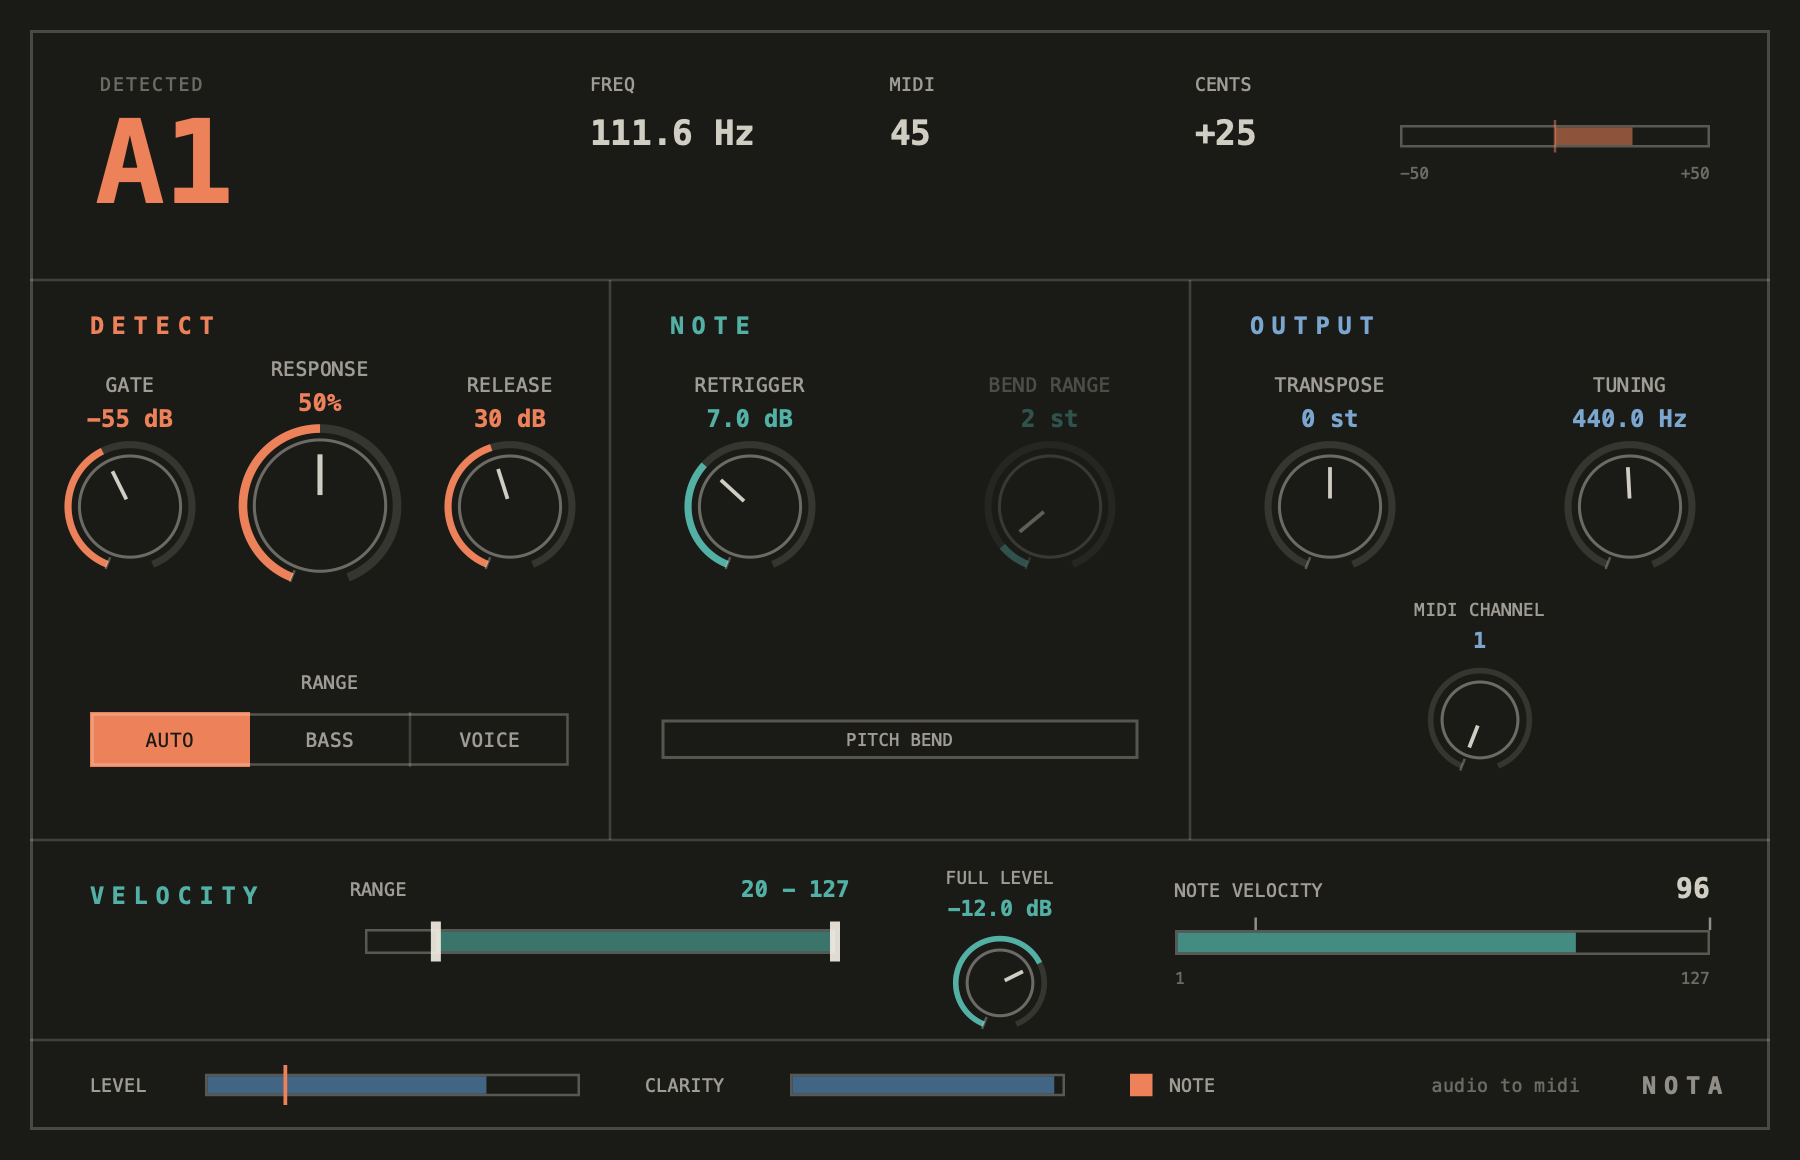
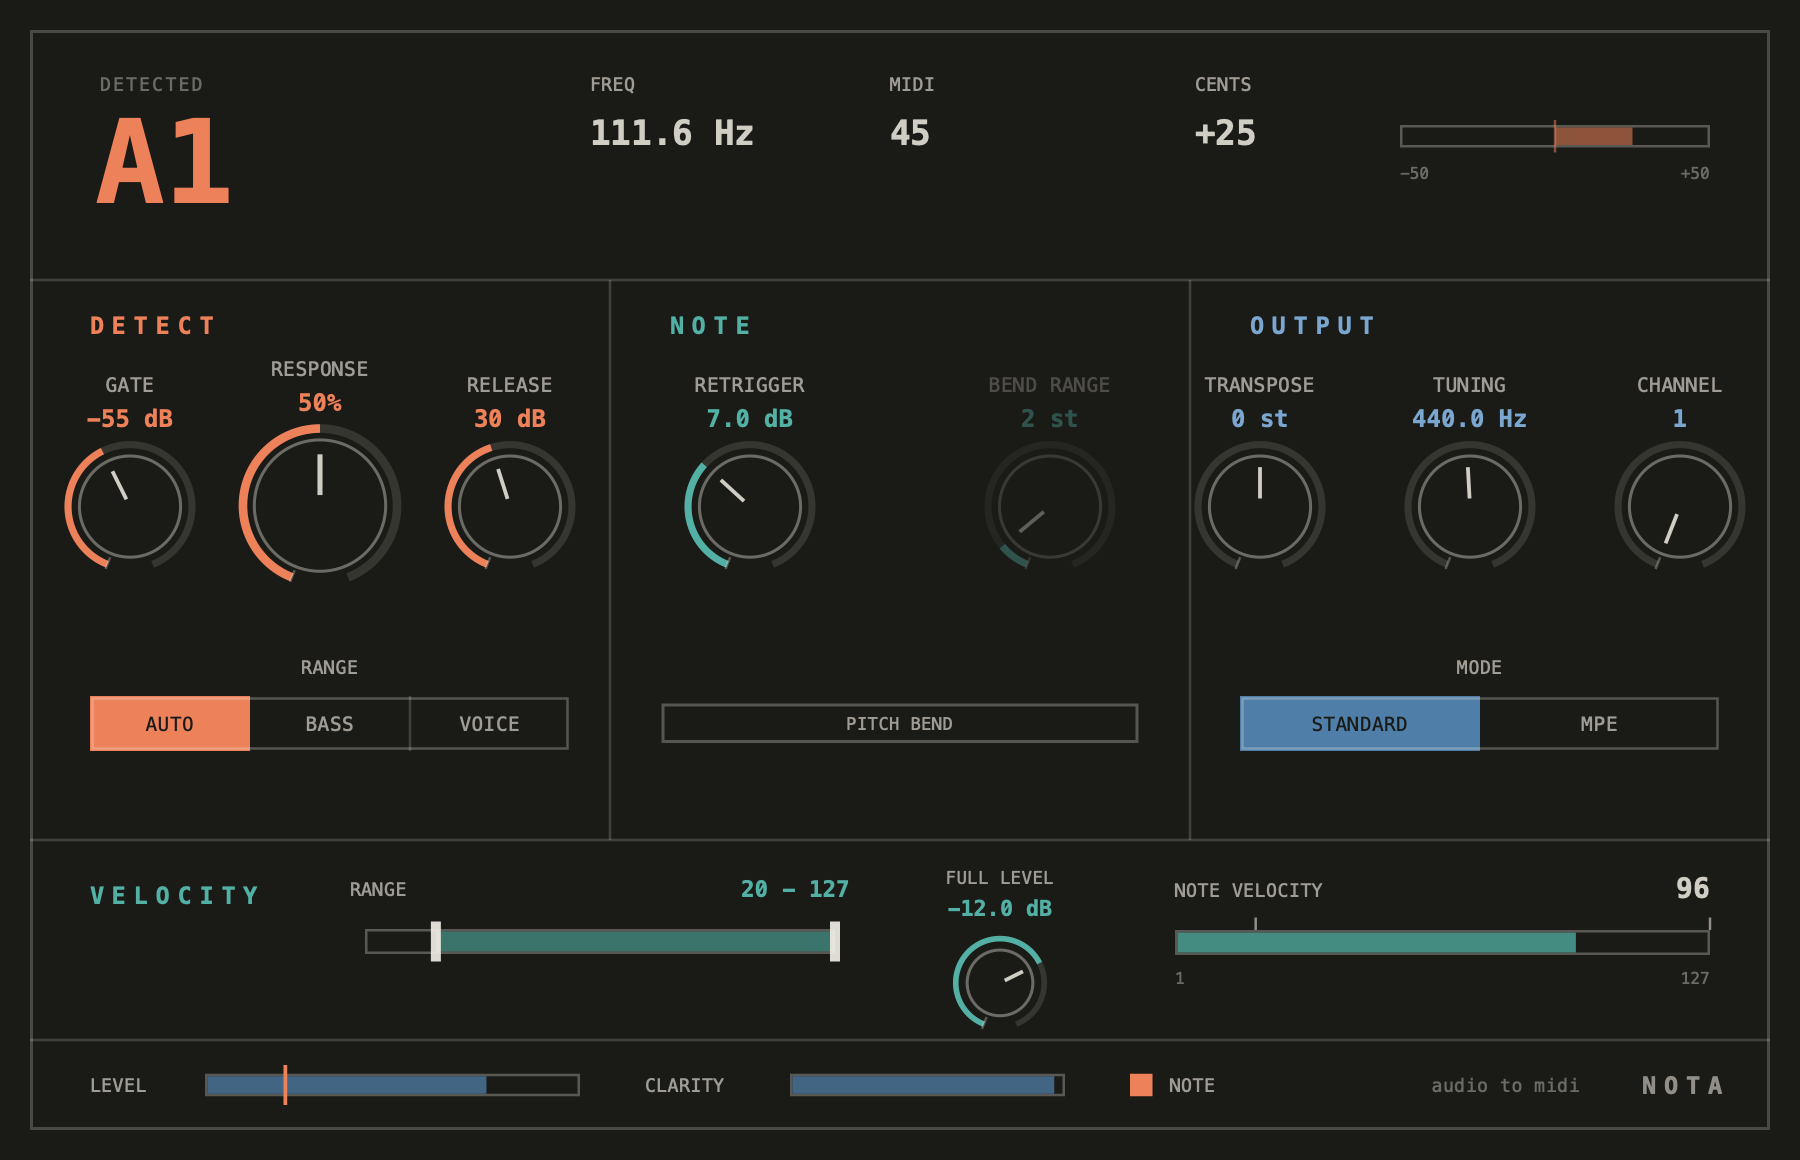
Plugin: MPE mode, AI Assist switch, velocity controls, dark UI

diff --git a/source/plugin/PluginProcessor.cpp b/source/plugin/PluginProcessor.cpp
@@ -16,6 +16,11 @@ constexpr const char* kVelFull = "velFull";
 constexpr const char* kTuning = "tuning";
 constexpr const char* kRetrigger = "retrigger";
 constexpr const char* kChannel = "channel";
+constexpr const char* kMode = "mode";
+constexpr const char* kNeural = "neural";
+constexpr const char* kMpeBend = "mpeBend";
+constexpr const char* kMpePressure = "mpePressure";
+constexpr const char* kMpeSlide = "mpeSlide";
 
 juce::ParameterID pid(const char* id) { return { id, 1 }; }
 } // namespace
@@ -44,6 +49,12 @@ juce::AudioProcessorValueTreeState::ParameterLayout NotaProcessor::createLayout(
     l.add(std::make_unique<AudioParameterFloat>(pid(kTuning), "Tuning", NormalisableRange<float>(415.0f, 466.0f, 0.1f), 440.0f,
                                                 AudioParameterFloatAttributes().withLabel("Hz")));
     l.add(std::make_unique<AudioParameterInt>(pid(kChannel), "MIDI Channel", 1, 16, 1));
+    l.add(std::make_unique<AudioParameterChoice>(pid(kMode), "Output Mode", StringArray { "Standard", "MPE" }, 0));
+    l.add(std::make_unique<AudioParameterBool>(pid(kNeural), "AI Assist", false));
+    l.add(std::make_unique<AudioParameterFloat>(pid(kMpeBend), "MPE Bend Range", NormalisableRange<float>(1.0f, 48.0f, 1.0f), 48.0f,
+                                                AudioParameterFloatAttributes().withLabel("st")));
+    l.add(std::make_unique<AudioParameterBool>(pid(kMpePressure), "MPE Pressure", true));
+    l.add(std::make_unique<AudioParameterBool>(pid(kMpeSlide), "MPE Slide", true));
     return l;
 }
 
@@ -64,6 +75,11 @@ NotaProcessor::NotaProcessor()
     pTuning_ = apvts.getRawParameterValue(kTuning);
     pRetrigger_ = apvts.getRawParameterValue(kRetrigger);
     pChannel_ = apvts.getRawParameterValue(kChannel);
+    pMode_ = apvts.getRawParameterValue(kMode);
+    pNeural_ = apvts.getRawParameterValue(kNeural);
+    pMpeBend_ = apvts.getRawParameterValue(kMpeBend);
+    pMpePressure_ = apvts.getRawParameterValue(kMpePressure);
+    pMpeSlide_ = apvts.getRawParameterValue(kMpeSlide);
 }
 
 // No main input; the audio to analyse arrives on an optional sidechain; the (silent) output is stereo.
@@ -100,6 +116,11 @@ nota::Params NotaProcessor::readParams() const
     p.velocityFullDb = pVelFull_->load();
     p.tuningHz = pTuning_->load();
     p.retriggerDb = pRetrigger_->load();
+    p.mpe = pMode_->load() > 0.5f;
+    p.neural = pNeural_->load() > 0.5f;
+    p.mpeBendRange = pMpeBend_->load();
+    p.mpePressure = pMpePressure_->load() > 0.5f;
+    p.mpeSlide = pMpeSlide_->load() > 0.5f;
     return p;
 }
 
@@ -108,12 +129,39 @@ void NotaProcessor::prepareToPlay(double sampleRate, int samplesPerBlock)
     engine_.prepare(sampleRate);
     mono_.assign(static_cast<size_t>(std::max(samplesPerBlock, 1024)), 0.0f);
     heldNote_ = -1;
+    configDirty_ = true;
 }
 
 void NotaProcessor::releaseResources()
 {
     releaseHeldNote(nullptr);
     engine_.reset();
+}
+
+void NotaProcessor::sendCc(juce::MidiBuffer& midi, int channel, int cc, int value)
+{
+    midi.addEvent(juce::MidiMessage::controllerEvent(channel, cc, value), 0);
+}
+
+// Registered-parameter write: select RPN, set data, then null the selection so later CCs are not misread.
+void NotaProcessor::sendRpn(juce::MidiBuffer& midi, int channel, int msb, int lsb, int dataMsb)
+{
+    sendCc(midi, channel, 101, msb);
+    sendCc(midi, channel, 100, lsb);
+    sendCc(midi, channel, 6, dataMsb);
+    sendCc(midi, channel, 38, 0);
+    sendCc(midi, channel, 101, 127);
+    sendCc(midi, channel, 100, 127);
+}
+
+// MPE lower zone: master channel 1, member channels 2..16 (RPN 6 on the master), and the per-note
+// pitch-bend range on every member channel (RPN 0). Switching back sends a zone with no members.
+void NotaProcessor::sendMpeConfig(juce::MidiBuffer& midi, bool on, int bendRange)
+{
+    sendRpn(midi, 1, 0, 6, on ? 15 : 0);
+    if (on)
+        for (int ch = 2; ch <= 16; ++ch)
+            sendRpn(midi, ch, 0, 0, bendRange);
 }
 
 void NotaProcessor::releaseHeldNote(juce::MidiBuffer* midi)
@@ -128,11 +176,12 @@ void NotaProcessor::releaseHeldNote(juce::MidiBuffer* midi)
 
 void NotaProcessor::emit(const nota::EventList& events, juce::MidiBuffer& midi)
 {
-    const int ch = std::clamp(static_cast<int>(pChannel_->load()), 1, 16);
+    const int userChannel = std::clamp(static_cast<int>(pChannel_->load()), 1, 16);
 
     for (int i = 0; i < events.count; ++i)
     {
         const auto& e = events.events[i];
+        const int ch = e.channel != 0 ? static_cast<int>(e.channel) : userChannel; // MPE picks its own
         using T = nota::MidiEvent::Type;
         switch (e.type)
         {
@@ -143,7 +192,7 @@ void NotaProcessor::emit(const nota::EventList& events, juce::MidiBuffer& midi)
                 break;
             case T::NoteOff:
                 midi.addEvent(juce::MidiMessage::noteOff(ch, e.data1), e.sampleOffset);
-                if (heldNote_ == e.data1)
+                if (heldNote_ == e.data1 && heldChannel_ == ch)
                     heldNote_ = -1;
                 break;
             case T::PitchBend:
@@ -151,6 +200,9 @@ void NotaProcessor::emit(const nota::EventList& events, juce::MidiBuffer& midi)
                 break;
             case T::Cc:
                 midi.addEvent(juce::MidiMessage::controllerEvent(ch, e.data1, e.data2), e.sampleOffset);
+                break;
+            case T::ChannelPressure:
+                midi.addEvent(juce::MidiMessage::channelPressureChange(ch, e.data1), e.sampleOffset);
                 break;
         }
     }
@@ -168,6 +220,27 @@ void NotaProcessor::processBlock(juce::AudioBuffer<float>& buffer, juce::MidiBuf
     const int numIn = input.getNumChannels();
 
     engine_.setParams(readParams());
+
+    // Mode / zone configuration. Switching modes drops the note in flight (it lives on a different
+    // channel layout), then tells the receiver how many member channels to expect.
+    const bool mpe = pMode_->load() > 0.5f;
+    const int mpeRange = static_cast<int>(pMpeBend_->load());
+    if (mpe != mpeActive_ || configDirty_)
+    {
+        releaseHeldNote(&midi);
+        engine_.reset();
+        if (mpe || mpeActive_)
+            sendMpeConfig(midi, mpe, mpeRange);
+        mpeActive_ = mpe;
+        mpeRangeSent_ = mpeRange;
+        configDirty_ = false;
+    }
+    else if (mpe && mpeRange != mpeRangeSent_)
+    {
+        for (int ch = 2; ch <= 16; ++ch)
+            sendRpn(midi, ch, 0, 0, mpeRange);
+        mpeRangeSent_ = mpeRange;
+    }
 
     int done = 0;
     while (done < numSamples)
@@ -214,6 +287,7 @@ void NotaProcessor::processBlockBypassed(juce::AudioBuffer<float>&, juce::MidiBu
     midi.clear();
     releaseHeldNote(&midi);
     engine_.reset();
+    configDirty_ = true; // resend the zone setup when processing resumes
 }
 
 juce::AudioProcessorEditor* NotaProcessor::createEditor()

diff --git a/source/plugin/PluginEditor.cpp b/source/plugin/PluginEditor.cpp
@@ -28,6 +28,8 @@ NotaEditor::NotaEditor(NotaProcessor& p) : juce::AudioProcessorEditor(&p), proc_
     release_ = std::make_unique<Knob>(param("release"), "Release", kCoral, kCoral, 20.0f, false,
                                       [](float v) { return juce::String(juce::roundToInt(v)) + " dB"; });
     range_ = std::make_unique<Selector>(static_cast<juce::AudioParameterChoice&>(param("range")), kCoral);
+    ai_ = std::make_unique<Latch>(param("neural"), "AI ASSIST", kCoral, 192.0f);
+    addAndMakeVisible(*ai_);
 
     // NOTE — what a note does (teal).
     retrigger_ = std::make_unique<Knob>(param("retrigger"), "Retrigger", kTeal, kTeal, 20.0f, false,
@@ -48,7 +50,7 @@ NotaEditor::NotaEditor(NotaProcessor& p) : juce::AudioProcessorEditor(&p), proc_
     });
     tuning_ = std::make_unique<Knob>(param("tuning"), "Tuning", kSteel, kSteelText, 20.0f, true,
                                      [](float v) { return juce::String(v, 1) + " Hz"; });
-    channel_ = std::make_unique<Knob>(param("channel"), "MIDI channel", kSteel, kSteelText, 15.0f, false,
+    channel_ = std::make_unique<Knob>(param("channel"), "Channel", kSteel, kSteelText, 20.0f, false,
                                       [](float v) { return juce::String(juce::roundToInt(v)); });
 
     for (juce::Component* c : { static_cast<juce::Component*>(gate_.get()), static_cast<juce::Component*>(response_.get()),
@@ -59,6 +61,21 @@ NotaEditor::NotaEditor(NotaProcessor& p) : juce::AudioProcessorEditor(&p), proc_
                                 static_cast<juce::Component*>(transpose_.get()), static_cast<juce::Component*>(tuning_.get()),
                                 static_cast<juce::Component*>(channel_.get()) })
         addAndMakeVisible(*c);
+
+    // MPE: one channel per note, so each note carries its own bend / pressure / slide.
+    mpeBend_ = std::make_unique<Knob>(param("mpeBend"), "MPE bend", kTeal, kTeal, 20.0f, false,
+                                      [](float v) { return juce::String(juce::roundToInt(v)) + " st"; });
+    pressure_ = std::make_unique<Latch>(param("mpePressure"), "PRESSURE", kTeal, 92.0f);
+    slide_ = std::make_unique<Latch>(param("mpeSlide"), "SLIDE", kTeal, 92.0f);
+    mode_ = std::make_unique<Selector>(static_cast<juce::AudioParameterChoice&>(param("mode")), kSteel);
+    for (juce::Component* c : { static_cast<juce::Component*>(mpeBend_.get()), static_cast<juce::Component*>(pressure_.get()),
+                                static_cast<juce::Component*>(slide_.get()), static_cast<juce::Component*>(mode_.get()),
+                                })
+        addAndMakeVisible(*c);
+
+    // The NOTE column and the channel knob follow the output mode.
+    modeWatcher_ = std::make_unique<juce::ParameterAttachment>(param("mode"), [this](float) { updateModeVisibility(); });
+    modeWatcher_->sendInitialUpdate();
 
     // Bend range means nothing until pitch bend is on.
     bendWatcher_ = std::make_unique<juce::ParameterAttachment>(param("bend"), [this](float v) { bendRange_->setActive(v > 0.5f); });
@@ -71,6 +88,17 @@ NotaEditor::NotaEditor(NotaProcessor& p) : juce::AudioProcessorEditor(&p), proc_
 }
 
 NotaEditor::~NotaEditor() = default;
+
+void NotaEditor::updateModeVisibility()
+{
+    const bool mpe = proc_.apvts.getRawParameterValue("mode")->load() > 0.5f;
+    bend_->setVisible(!mpe);
+    bendRange_->setVisible(!mpe);
+    mpeBend_->setVisible(mpe);
+    pressure_->setVisible(mpe);
+    slide_->setVisible(mpe);
+    channel_->setActive(!mpe); // MPE chooses its own channels
+}
 
 juce::Rectangle<int> NotaEditor::toPixels(juce::Rectangle<float> d) const
 {
@@ -94,15 +122,21 @@ void NotaEditor::resized()
     place(*gate_, 52.0f, kRowA);
     place(*response_, 128.0f, kRowA - 6.0f);
     place(*release_, 204.0f, kRowA);
-    placeAt(*range_, 36.0f, kRowBCentre - 3.0f);
+    placeAt(*range_, 36.0f, kRowBCentre - 9.0f);
+    placeAt(*ai_, 36.0f, kRowBCentre + 21.0f);
 
     place(*retrigger_, 300.0f, kRowA);
     place(*bendRange_, 420.0f, kRowA);
-    placeAt(*bend_, 264.0f, kRowBCentre - 0.5f);
+    placeAt(*bend_, 264.0f, kRowBCentre - 6.5f);
 
-    place(*transpose_, 532.0f, kRowA);
-    place(*tuning_, 652.0f, kRowA);
-    place(*channel_, 592.0f, kRowBCentre - 34.0f - 15.0f);
+    place(*mpeBend_, 420.0f, kRowA);
+    placeAt(*pressure_, 264.0f, kRowBCentre - 6.5f);
+    placeAt(*slide_, 364.0f, kRowBCentre - 6.5f);
+
+    place(*transpose_, 504.0f, kRowA);
+    place(*tuning_, 588.0f, kRowA);
+    place(*channel_, 672.0f, kRowA);
+    placeAt(*mode_, 496.0f, kRowBCentre - 9.0f);
 
     placeAt(*velRange_, 140.0f, kStripTop + 14.0f);
     place(*velFull_, 400.0f, kStripTop + 10.0f);
@@ -299,7 +333,9 @@ void NotaEditor::paint(juce::Graphics& g)
 
     g.setColour(ink(0.62f));
     g.setFont(mono(8.5f, false, 0.02f));
-    g.drawText("RANGE", juce::Rectangle<float>(36.0f, kRowBCentre - 21.0f, 192.0f, 12.0f), juce::Justification::centred, false);
+    g.drawText("RANGE", juce::Rectangle<float>(36.0f, kRowBCentre - 27.0f, 192.0f, 12.0f), juce::Justification::centred, false);
+
+    g.drawText("MODE", juce::Rectangle<float>(496.0f, kRowBCentre - 27.0f, 192.0f, 12.0f), juce::Justification::centred, false);
 
     drawVelocity(g);
     drawStatus(g);

diff --git a/source/plugin/PluginProcessor.h b/source/plugin/PluginProcessor.h
@@ -58,6 +58,9 @@ private:
     nota::Params readParams() const;
     void emit(const nota::EventList& events, juce::MidiBuffer& midi);
     void releaseHeldNote(juce::MidiBuffer* midi);
+    void sendCc(juce::MidiBuffer& midi, int channel, int cc, int value);
+    void sendRpn(juce::MidiBuffer& midi, int channel, int msb, int lsb, int dataMsb);
+    void sendMpeConfig(juce::MidiBuffer& midi, bool on, int bendRange);
 
     nota::Engine engine_;
     std::vector<float> mono_;
@@ -65,6 +68,10 @@ private:
 
     int heldNote_ = -1; // note number currently sounding on the output (after transpose)
     int heldChannel_ = 1;
+
+    bool mpeActive_ = false;   // mode the host has been told about
+    int mpeRangeSent_ = -1;
+    bool configDirty_ = true;
 
     std::atomic<float>* pGate_ = nullptr;
     std::atomic<float>* pRelease_ = nullptr;
@@ -79,6 +86,11 @@ private:
     std::atomic<float>* pTuning_ = nullptr;
     std::atomic<float>* pRetrigger_ = nullptr;
     std::atomic<float>* pChannel_ = nullptr;
+    std::atomic<float>* pMode_ = nullptr;
+    std::atomic<float>* pNeural_ = nullptr;
+    std::atomic<float>* pMpeBend_ = nullptr;
+    std::atomic<float>* pMpePressure_ = nullptr;
+    std::atomic<float>* pMpeSlide_ = nullptr;
 
     JUCE_DECLARE_NON_COPYABLE_WITH_LEAK_DETECTOR(NotaProcessor)
 };

diff --git a/source/plugin/PluginEditor.h b/source/plugin/PluginEditor.h
@@ -31,14 +31,18 @@ private:
     float scale() const { return static_cast<float>(getWidth()) / kDesignW; }
     juce::Rectangle<int> toPixels(juce::Rectangle<float> design) const;
     void drawReadout(juce::Graphics&) const;
+    void updateModeVisibility();
     void drawVelocity(juce::Graphics&) const;
     void drawStatus(juce::Graphics&) const;
 
     NotaProcessor& proc_;
 
-    std::unique_ptr<sungam::Knob> gate_, response_, release_, retrigger_, bendRange_, transpose_, tuning_, channel_, velFull_;
+    std::unique_ptr<sungam::Knob> gate_, response_, release_, retrigger_, bendRange_, transpose_, tuning_, channel_, velFull_, mpeBend_;
     std::unique_ptr<sungam::Latch> bend_;
+    std::unique_ptr<sungam::Latch> pressure_, slide_, ai_;
+    std::unique_ptr<sungam::Selector> mode_;
     std::unique_ptr<sungam::RangeBar> velRange_;
+    std::unique_ptr<juce::ParameterAttachment> modeWatcher_;
     std::unique_ptr<sungam::Selector> range_;
     std::unique_ptr<juce::ParameterAttachment> bendWatcher_;
 

diff --git a/README.md b/README.md
@@ -32,7 +32,7 @@ DSP, tools and tests only (no JUCE):
 cmake -B build -DNOTA_BUILD_PLUGIN=OFF && cmake --build build -j
 ./build/nota_tests          # unit + end-to-end tests
 ./build/nota_bench          # latency / accuracy sweep across the bass and voice range
-./build/nota_cli in.wav out.mid --range bass
+./build/nota_cli in.wav out.mid --range bass   # add --mpe for MPE output
 ```
 
 ## Using it in Ableton Live
@@ -46,10 +46,39 @@ AU) — see [Ableton's article](https://help.ableton.com/hc/en-us/articles/20907
 3. On the track that should play the notes: *MIDI From* → the Nota track →
    *Nota* (channel chooser). Set Monitor to *In*.
 
+**Simpler in Live: Max for Live.** `maxforlive/` has two devices that make Nota behave like a MIDI effect: *Nóta source* on the
+audio track and *Nóta destination* before the instrument on the instrument track, which can also play chords and a
+random scale-note flourish in Live's scale or one you choose (see `maxforlive/README.md`).
+
 Other hosts that route plug-in MIDI output and sidechains (Bitwig, Reaper) should work the same way.
+
+## MPE mode
+
+*Output mode → MPE* gives every note its own MIDI channel (member channels 2-16, master channel 1, lower zone), so
+each note carries its own expression, as an MPE synth expects:
+
+- **Pitch bend, per note.** The note number is the nearest semitone; the remaining deviation is that note's own bend
+  (range set by *MPE bend*, default ±48, sent to the synth with RPN 0). Vibrato and glides bend one note instead of
+  firing new ones. An abrupt jump (hammer-on, leap) still starts a new note.
+- **Pressure** (channel pressure) follows the note's level; **Slide** (CC74) follows its brightness (harmonic richness
+  relative to a sine). Each can be switched off.
+- Notes rotate through the member channels, so a released note's tail is never bent by the next note.
+- On switching mode (and on load, in MPE) Nota sends the MPE zone setup (RPN 6) and the per-note bend range.
+
+The receiving synth must be in MPE mode with the same bend range.
+
+**Ableton Live:** Live has its own MPE handling, and its manual says plug-ins with MIDI outs and MPE enabled can output MPE
+([manual, "MPE in External Plug-ins"](https://www.ableton.com/en/live-manual/12/editing-mpe/)). Switch MPE on for the Nota
+device (its settings are in the context menu of the device's title bar), send its MIDI to an MPE-capable instrument as
+usual (*MIDI From* the Nota track), and make Live's per-note bend range match *MPE bend* (default 48). Nota uses the lower
+zone: master channel 1, member channels 2-16. Not yet verified inside Live.
 
 Controls: *Gate* (level below which nothing happens), *Response* (accurate ↔
 fast), *Release* (note-off, in dB under the note's own peak), *Velocity range* (the output
 velocity range, min–max; equal handles = fixed velocity), *Full level* (the attack level that reaches the max), *Retrigger* (re-pluck of the same note), *Range*
 (Auto / Bass / Voice), *Pitch Bend* + *Bend Range* (must match the receiving
-synth), *Transpose*, *Tuning*, *MIDI Channel*.
+synth), *Transpose*, *Tuning*, *MIDI Channel* (Standard mode), *Output mode* (Standard / MPE), *AI Assist* (experimental neural pitch picker; fixes octave slips on higher voices, leaves the bass range alone; ~6% of a core).
+
+**AI Assist needs trained weights that are not in this repository** (they derive partly from commercial sample loops, see
+[training/README.md](training/README.md)). A build from a plain checkout has the classical tracker only and the AI Assist
+switch does nothing; train your own weights with `training/` to enable it.
